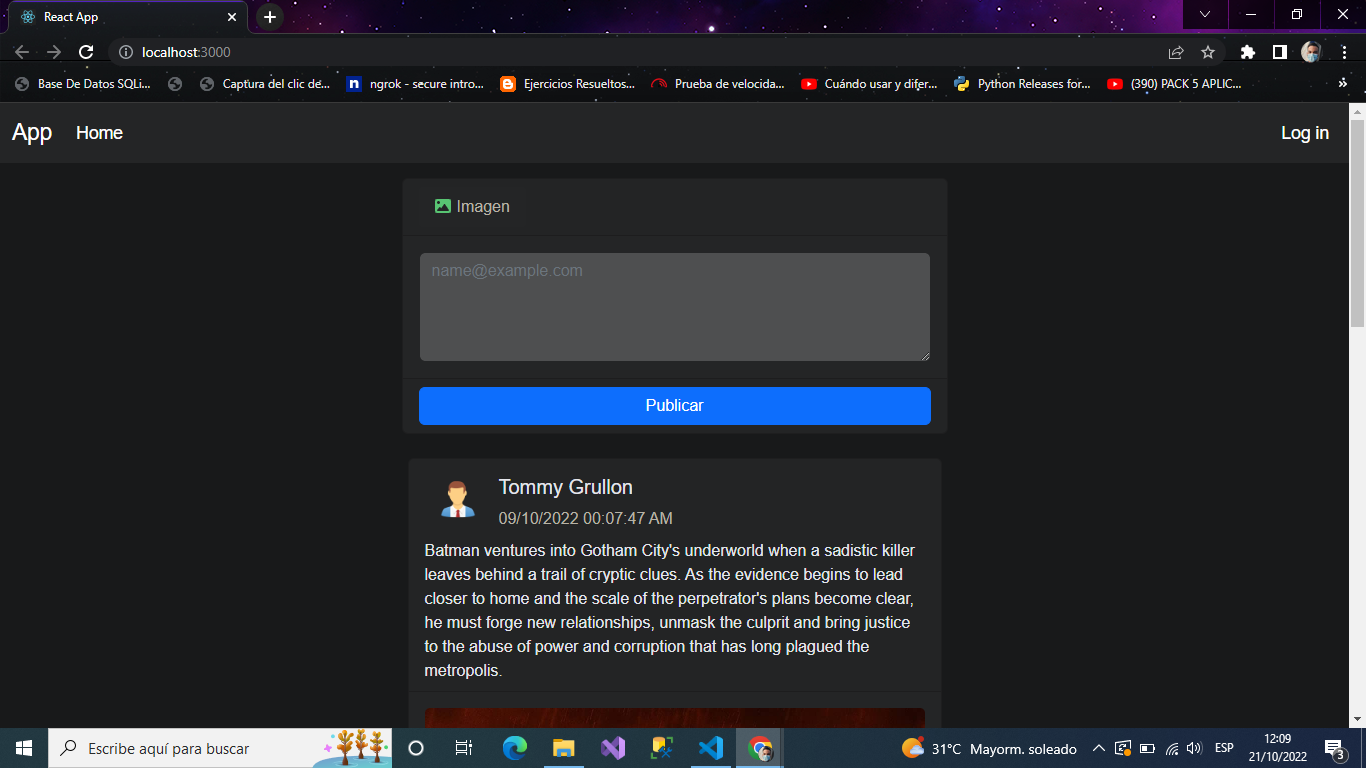
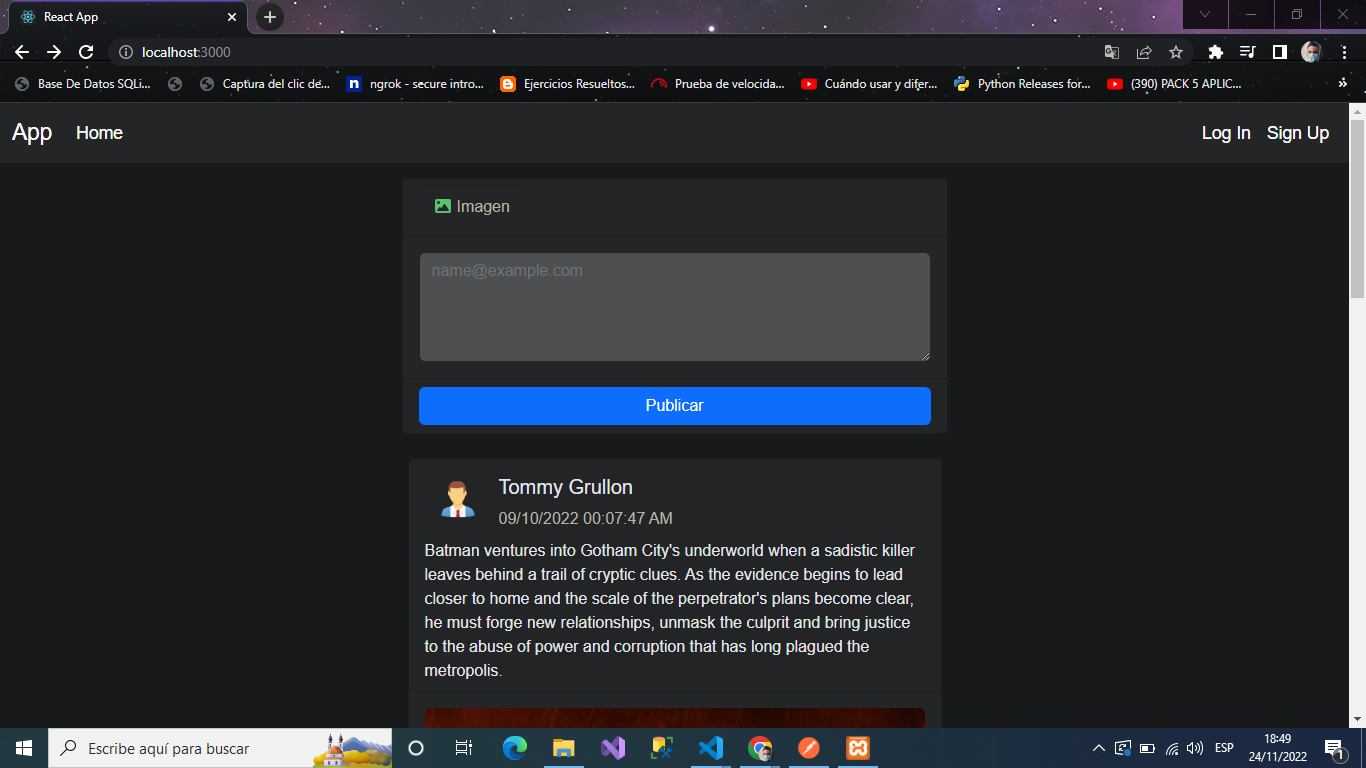
Primer commit

diff --git a/src/components/Login/Login.js b/src/components/Login/Login.js
@@ -50,8 +50,8 @@ function Login() {
       <ToastContainer />
       <div className={styles.container}>
         <div className={styles.innerBox}>
-          <div className="d-flex justify-content-start">
-              <div className="p-2"><h1 className={styles.heading}>Inicia</h1></div>
+          <div className="d-flex justify-content-center">
+              <div className="p-2"><h1 className={styles.heading}>Iniciar</h1></div>
               <div className="p-2"><h1 style={{color: "#9900ff"}}>Sesión</h1></div>
           </div>
           <InputControl label="Email" placeholder="Introduce tu correo electrónico"
@@ -62,7 +62,7 @@ function Login() {
           />
 
           <div className={styles.footer}>
-            <button className={styles.btnComponents} onClick={handleSubmission}>Iniciar sesión</button>
+            <button className={styles.btnComponents} onClick={handleSubmission}>Loguearse</button>
             <p>
               No tienes una cuenta?{" "}
               <span>

diff --git a/src/components/Signup/Signup.js b/src/components/Signup/Signup.js
@@ -66,8 +66,9 @@ function Signup() {
       <ToastContainer />
       <div className={styles.container}>
         <div className={styles.innerBox}>
-        <div className="d-flex justify-content-start">
-              <div className="p-2"><h1 className={styles.heading}>Regístrate</h1></div>
+        <div className="d-flex justify-content-center">
+              <div className="p-2"><h1 className={styles.heading}>Crear</h1></div>
+              <div className="p-2"><h1 style={{color: "#9900ff"}}>Cuenta</h1></div>
           </div>
           <InputControl label="Nombre" placeholder="Introduce tu nombre"
             onChange={(event) => setValues((prev) => ({ ...prev, name: event.target.value }))}

diff --git a/src/components/Home/Home.js b/src/components/Home/Home.js
@@ -42,7 +42,10 @@ function Home(props) {
                 :
                 <ul className="navbar-nav justify-content-end">
                   <li className="nav-item">
-                    <a href="/Login" className="nav-link">Log in</a>
+                    <a href="/Login" className="nav-link">Log In</a>
+                  </li>
+                  <li className="nav-item">
+                    <a href="/Signup" className="nav-link">Sign Up</a>
                   </li>
                 </ul>
             }

diff --git a/README.md b/README.md
@@ -4,4 +4,4 @@ Esta es el proyecto final de programación web de Raydelto Hernández Perera, é
 
 ![Mi captura de pantalla del login](public/img/foto2.png)
 
-![Mi captura de pantalla del registro](public/img/foto2.png)
+![Mi captura de pantalla del registro](public/img/foto3.png)
